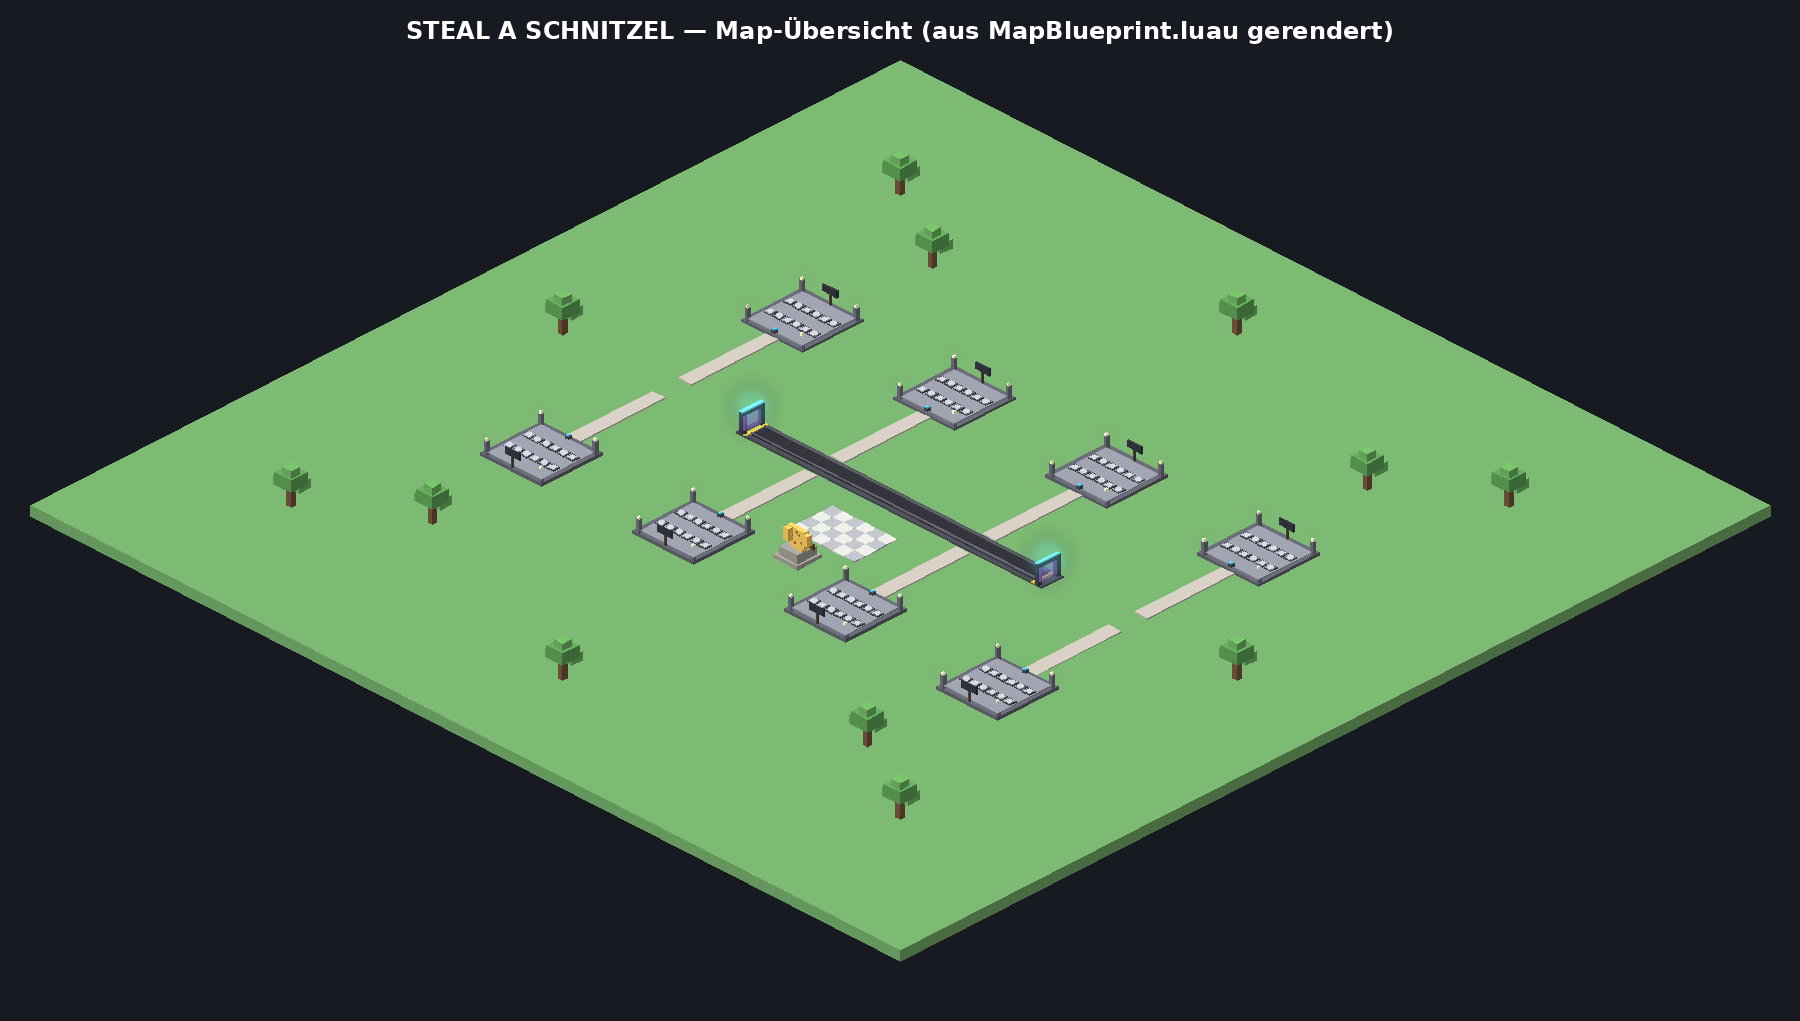
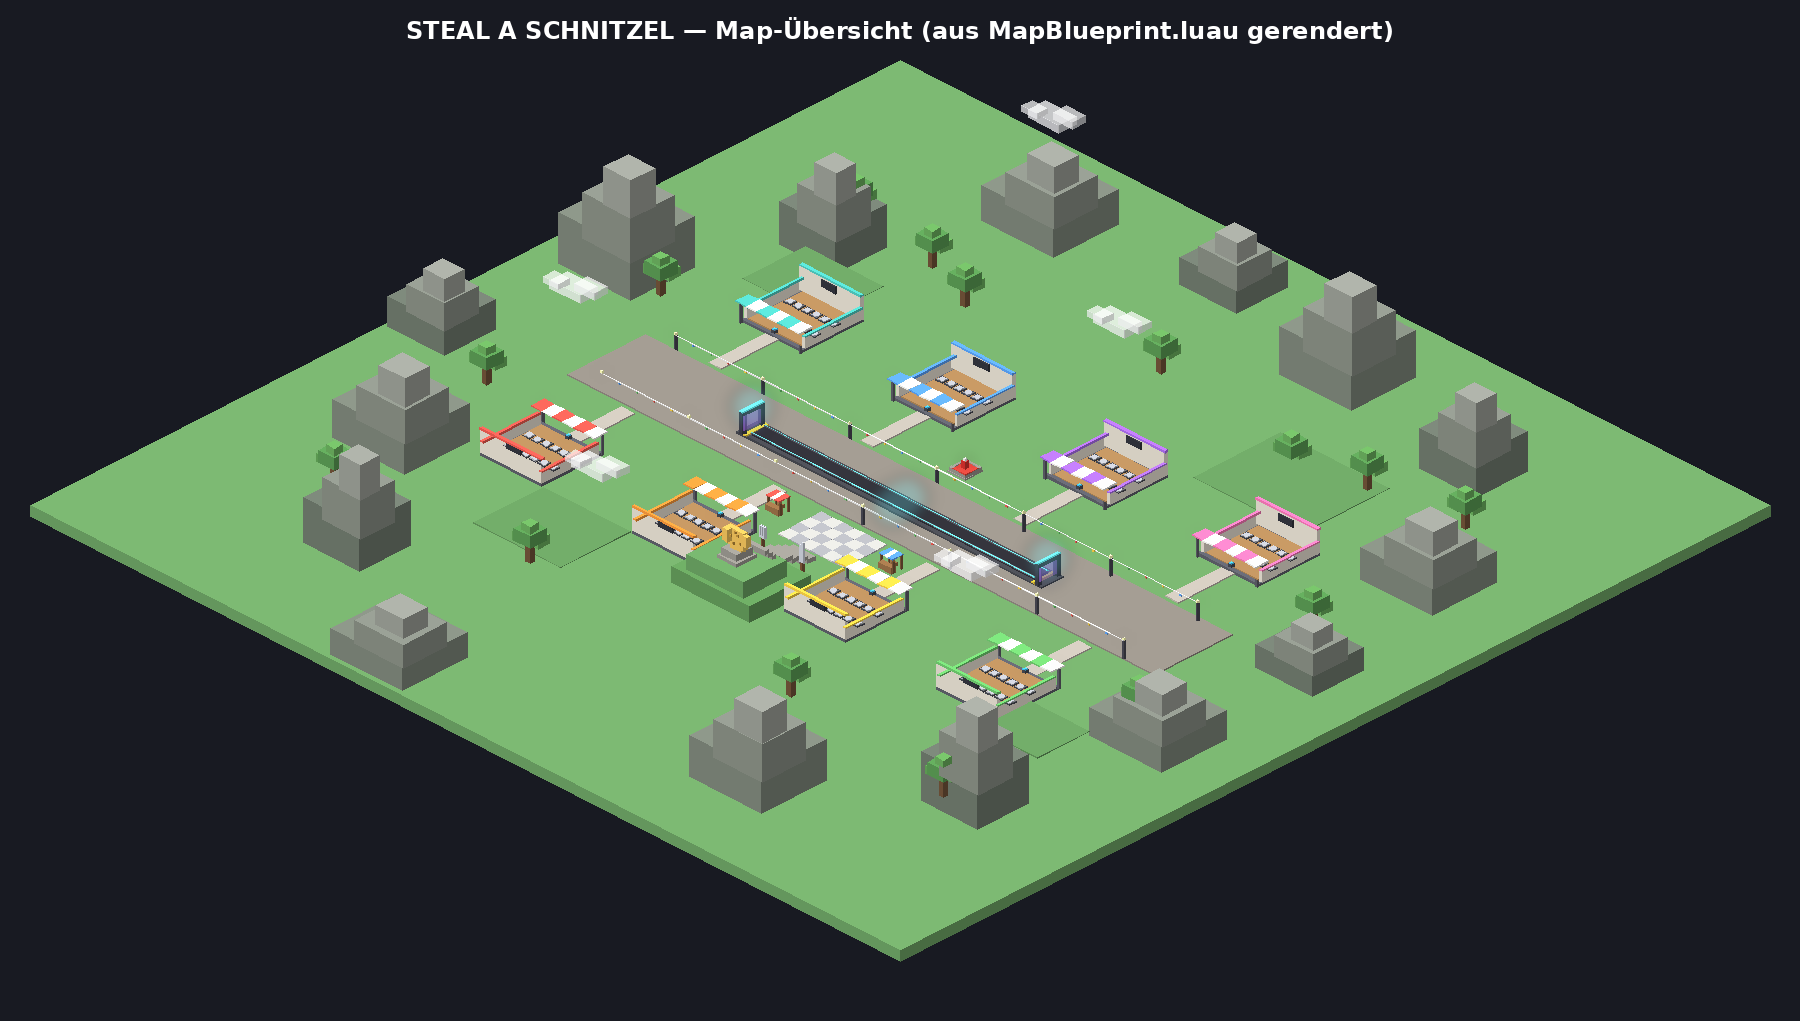
Rebuild the map as a food-street valley
The flat plate with 8 zones is gone. The bases are now colorful
restaurant buildings (brick walls, accent trims, striped awnings on
lamp poles, wood-plank interiors) along a cobbled boulevard with the
conveyor running down the middle as a sushi belt with neon edge
lights. Around it: a terraced statue hill with stair flights, the
golden schnitzel flanked by a giant fork and knife, a ketchup
fountain, market stalls, street lamps with bunting flags, 15 trees,
a tiered mountain ring as the valley skyline and translucent clouds.
Gameplay coordinates (plots, belt, spawn) are unchanged.

Renderer: cap neon glow radius so long strips don't flood the scene.

diff --git a/roblox-game/tools/render_map.py b/roblox-game/tools/render_map.py
@@ -39,7 +39,7 @@ def main():
         alpha = int(255 * (1 - part.get("t", 0)))
         if part.get("m") == "Neon":
             x, y = project(part["p"], k, ox, oy)
-            r = k * max(part["s"]) * 0.7
+            r = k * min(max(part["s"]), 10) * 0.7
             ImageDraw.Draw(glow).ellipse([x - r, y - r, x + r, y + r], fill=shade(color, 1.1) + (60,))
             color = shade(color, 1.25)
         draw_box(img, part["p"], part["s"], color, alpha, k, ox, oy)
